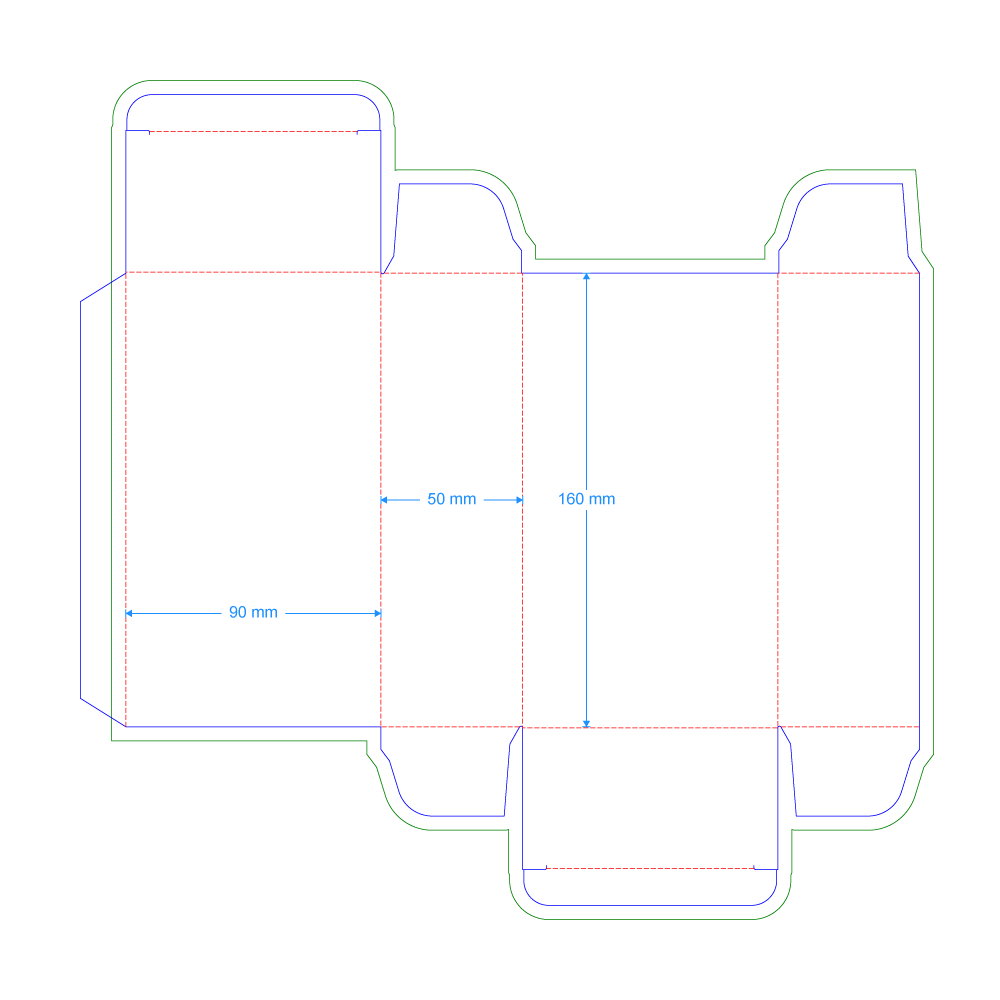
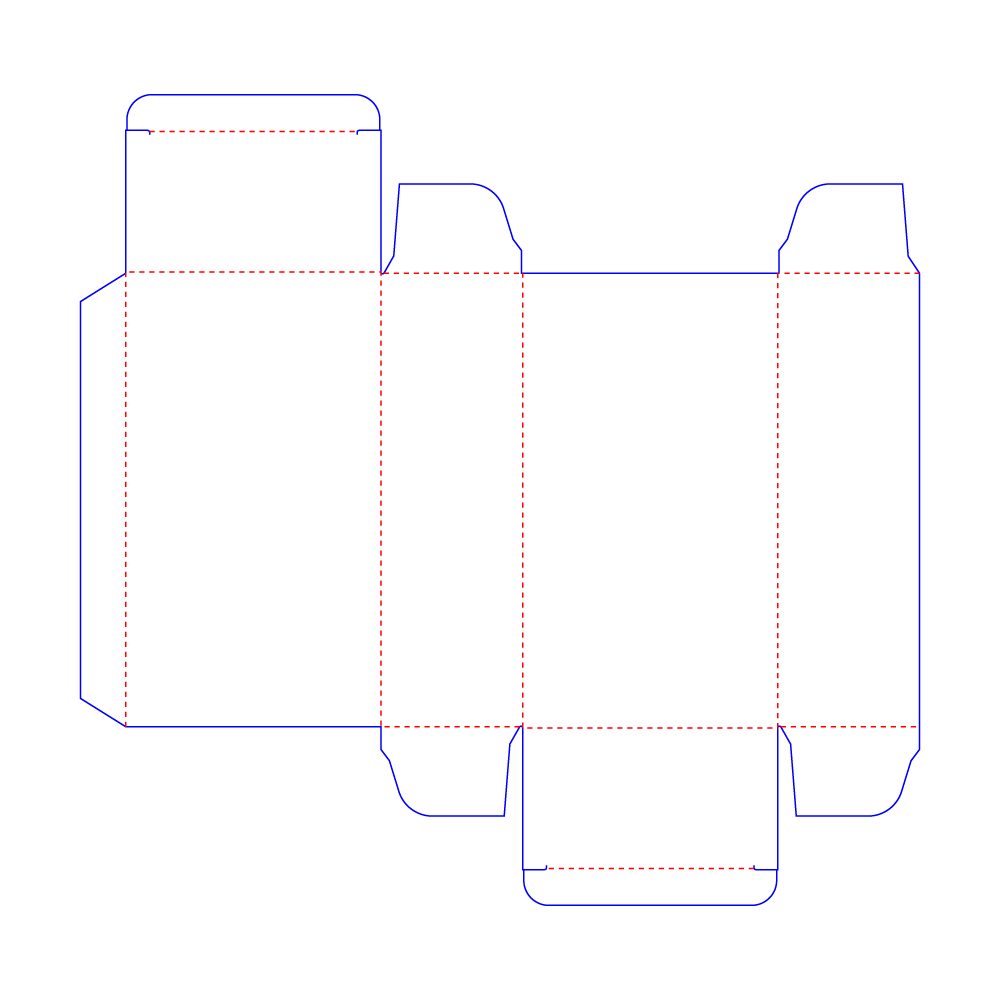
Refactor Overall code to be more consize

diff --git a/apps/web/components/product/ProductInfo.tsx b/apps/web/components/product/ProductInfo.tsx
@@ -8,10 +8,12 @@ import {
   DimensionsType,
   SVGModelSizes,
 } from "@/lib/dielines/core/types";
+import { tuckEndModel } from "@/public";
 import { formatDimensions } from "@/utils/formatDimensions";
 import { toMm } from "@/utils/sizeConvertor";
 import { Card, CardContent, CardTitle } from "@workspace/ui/components/card";
 import { Switch } from "@workspace/ui/components/switch";
+import Image from "next/image";
 
 interface Props {
   dimension: Dimensions;
@@ -139,49 +141,52 @@ const ProductInfo = ({
 
   return (
     <div className="h-full flex flex-col justify-between w-full z-10">
-      <div>
+      <div className="space-y-3">
+        <Image
+          alt=""
+          src={tuckEndModel}
+          width={300}
+          height={300}
+          className="bg-accent rounded-2xl"
+        />
         <div className="flex justify-between">
           {packLengend.map(({ color, label }) => (
-            <div key={label} className="flex items-center gap-1 mb-2">
+            <div key={label} className="flex items-center gap-1">
               <div className={`h-1 w-7 rounded-full border ${color}`} />
               <span className="text-sm">{label}</span>
             </div>
           ))}
         </div>
 
-        {/* Dimensions */}
-        <div>
-          <div className="space-y-1">
-            {dimensions.map(
-              ({ label, value, key }) =>
-                dimensionsType.includes(
-                  key as "manufacture" | "inner" | "outer"
-                ) && (
-                  <div key={label} className="border w-3/4 p-2 rounded-2xl">
-                    <span className="block text-muted-foreground text-xs">
-                      {label}
-                    </span>
-                    <span dir="ltr" className="font-medium text-sm">
-                      {value}
-                    </span>
-                  </div>
-                )
-            )}
-          </div>
-
-          {/* Deliveries */}
-          <ul className="mt-4 space-y-2 list-disc list-inside">
-            {deliveries.map((item, index) => (
-              <li key={index} className="text-xs text-muted-foreground">
-                {item}
-              </li>
-            ))}
-          </ul>
+        <div className="space-y-1">
+          {dimensions.map(
+            ({ label, value, key }) =>
+              dimensionsType.includes(
+                key as "manufacture" | "inner" | "outer"
+              ) && (
+                <div key={label} className="border w-3/4 p-2 rounded-2xl">
+                  <span className="block text-muted-foreground text-xs">
+                    {label}
+                  </span>
+                  <span dir="ltr" className="font-medium text-sm">
+                    {value}
+                  </span>
+                </div>
+              )
+          )}
         </div>
+
+        <ul className="mt-4 space-y-2 list-disc list-inside">
+          {deliveries.map((item, index) => (
+            <li key={index} className="text-xs text-muted-foreground">
+              {item}
+            </li>
+          ))}
+        </ul>
       </div>
 
       {onDevelepe && sizes && (
-        <div className="w-full">
+        <div className="absolute left-0 bottom-0 w-fit m-3 opacity-0 hover:opacity-100 transition-opacity">
           <Card dir="ltr" className="p-4 gap-1">
             <CardTitle>Developer Tools:</CardTitle>
 

diff --git a/apps/web/components/forms/login/OTPForm.tsx b/apps/web/components/forms/login/OTPForm.tsx
@@ -22,9 +22,10 @@ import { useEffect } from "react";
 
 interface Props {
   setLoginStep: (val: LoginStep) => void;
+  phoneNumber: string;
 }
 
-export function OTPForm({ setLoginStep }: Props) {
+export function OTPForm({ setLoginStep, phoneNumber }: Props) {
   const form = useForm<OTPFormType>({
     resolver: zodResolver(otpFormSchema),
     defaultValues: {
@@ -59,7 +60,7 @@ export function OTPForm({ setLoginStep }: Props) {
                 <FormControl>
                   <div className="space-y-2">
                     <p className="text-center text-sm text-muted-foreground">
-                      لطفا کد ارسال شده به 09127452859 را وارد کنید.
+                      لطفا کد ارسال شده به {phoneNumber} را وارد کنید.
                     </p>
                     <InputOTP
                       autoFocus

diff --git a/apps/web/components/PacsazBGPattern.tsx b/apps/web/components/PacsazBGPattern.tsx
@@ -1,8 +1,15 @@
+import { cn } from "@workspace/ui/lib/utils";
 import { ReactNode } from "react";
 
-const PacsazBGPattern = ({ children }: { children: ReactNode }) => {
+const PacsazBGPattern = ({
+  children,
+  className,
+}: {
+  children: ReactNode;
+  className?: string;
+}) => {
   return (
-    <div className="bg-accent h-screen overflow-hidden flex  items-center justify-center ">
+    <div className="bg-accent absolute inset-0 h-full overflow-hidden">
       <div
         className={`
         absolute inset-0 
@@ -13,7 +20,7 @@ const PacsazBGPattern = ({ children }: { children: ReactNode }) => {
         pointer-events-none
       `}
       />
-      {children}
+      <div className={cn("min-h-screen z-10", className)}>{children}</div>
     </div>
   );
 };

diff --git a/apps/web/components/forms/login/InputForm.tsx b/apps/web/components/forms/login/InputForm.tsx
@@ -16,9 +16,10 @@ import { LoginStep } from "./LoginForm";
 
 interface Props {
   setLoginStep: (val: LoginStep) => void;
+  setPhoneNumber: (val: string) => void;
 }
 
-export function InputForm({ setLoginStep }: Props) {
+export function InputForm({ setLoginStep, setPhoneNumber }: Props) {
   const form = useForm<InputFormType>({
     resolver: zodResolver(inputFormSchema),
     defaultValues: {
@@ -26,9 +27,10 @@ export function InputForm({ setLoginStep }: Props) {
     },
   });
 
-  function onSubmit(values: InputFormType) {
+  function onSubmit(data: InputFormType) {
     setLoginStep("otp");
-    console.log(values);
+    setPhoneNumber(data.phoneNumber);
+    console.log(data);
   }
 
   return (

diff --git a/apps/web/components/DielinesGrid.tsx b/apps/web/components/DielinesGrid.tsx
@@ -34,7 +34,7 @@ const DielinesGrid = () => {
           <Ratio />
         </ToggleGroupItem>
       </ToggleGroup>
-      <div className="grid grid-cols-5 gap-8">
+      <div className="grid grid-cols-4 gap-8">
         {dielines.map((d, idx) => (
           <DielineCard key={idx} dieline={d} imageType={imageType} />
         ))}
@@ -79,7 +79,7 @@ const DielineCard = ({
           src={dieline.dielineImg}
           width={400}
           height={400}
-          className="w-full aspect-square bg-accent rounded-2xl"
+          className="w-full aspect-square border rounded-2xl"
         />
         <div className="text-sm text-muted-foreground">{dieline.title}</div>
       </div>

diff --git a/apps/web/components/forms/login/LoginForm.tsx b/apps/web/components/forms/login/LoginForm.tsx
@@ -8,11 +8,19 @@ export type LoginStep = "input" | "otp";
 
 const LoginForm = () => {
   const [loginStep, setLoginStep] = useState<LoginStep>("input");
+  const [phoneNumber, setPhoneNumber] = useState<string>("");
 
   return (
     <>
-      {loginStep === "input" && <InputForm setLoginStep={setLoginStep} />}
-      {loginStep === "otp" && <OTPForm setLoginStep={setLoginStep} />}
+      {loginStep === "input" && (
+        <InputForm
+          setLoginStep={setLoginStep}
+          setPhoneNumber={setPhoneNumber}
+        />
+      )}
+      {loginStep === "otp" && (
+        <OTPForm setLoginStep={setLoginStep} phoneNumber={phoneNumber} />
+      )}
     </>
   );
 };

diff --git a/apps/web/components/Navbar.tsx b/apps/web/components/Navbar.tsx
@@ -7,7 +7,7 @@ export const navbarPaddings = "p-3 px-10";
 const Navbar = () => {
   return (
     <div
-      className={`flex justify-between items-center border-b bg-background ${navbarPaddings}`}
+      className={`flex justify-between items-center border-b bg-background z-10 ${navbarPaddings}`}
     >
       <div className="flex gap-10 items-center">
         <Link href={"/"}>
@@ -35,6 +35,6 @@ export default Navbar;
 
 const navbarMenu = [
   { label: "قالب ها", href: "/dielines" },
-  { label: "آموزش", href: "" },
+  { label: "آموزش", href: "https://igraphical.ir/courses/packaging" },
   { label: "درباره ما", href: "" },
 ];

diff --git a/apps/web/app/(HOME)/subscription/page.tsx b/apps/web/app/(HOME)/subscription/page.tsx
@@ -1,11 +1,11 @@
-import Onboarding from "@/components/onboarding/Onboarding";
 import PacsazBGPattern from "@/components/PacsazBGPattern";
+import SubscriptionList from "@/components/SubscriptionList";
 import React from "react";
 
 const page = () => {
   return (
     <PacsazBGPattern className="flex justify-center items-center">
-      <Onboarding />
+      <SubscriptionList />
     </PacsazBGPattern>
   );
 };

diff --git a/apps/web/components/NavbarButtons.tsx b/apps/web/components/NavbarButtons.tsx
@@ -6,7 +6,7 @@ import Link from "next/link";
 const NavbarButtons = () => {
   return (
     <div className="flex gap-3 items-center">
-      <Link href={"/subscription"}>
+      <Link href={isSubscribed ? "/panel/subscription" : "/subscription"}>
         <Button variant={isSubscribed ? "secondary" : "ghost"}>
           {isSubscribed ? (
             <div className="flex gap-2 items-center">

diff --git a/apps/web/components/SubscriptionList.tsx b/apps/web/components/SubscriptionList.tsx
@@ -15,7 +15,7 @@ const SubscriptionList = () => {
   const discountFactor = 0.35;
 
   return (
-    <div className="h-full flex flex-col items-center justify-center gap-6">
+    <div className="h-full flex flex-col items-center justify-center gap-6 z-10">
       <div className="w-sm text-center flex flex-col items-center gap-3">
         <Badge variant={"lightPrimary"}>
           <Flag />

diff --git a/apps/web/app/login/page.tsx b/apps/web/app/login/page.tsx
@@ -3,7 +3,7 @@ import PacsazBGPattern from "@/components/PacsazBGPattern";
 
 const page = () => {
   return (
-    <PacsazBGPattern>
+    <PacsazBGPattern className="flex justify-center items-center">
       <LoginPopup />
     </PacsazBGPattern>
   );
